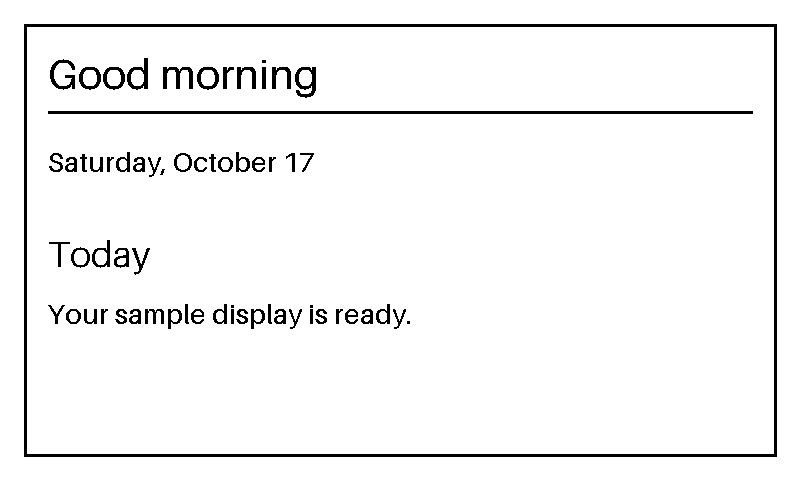
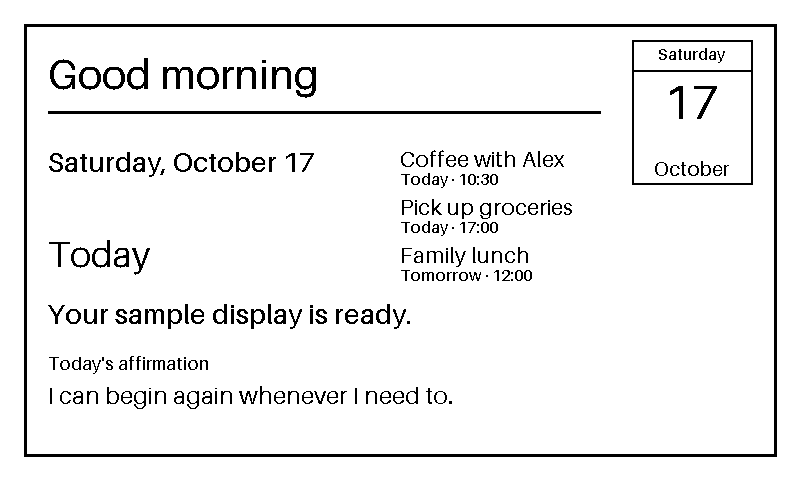
feat: show a daily affirmation on the display

diff --git a/server/renderer.py b/server/renderer.py
@@ -50,6 +50,29 @@ class Renderer:
             font = ImageFont.load_default(size=size)
             value = str(data[key])
             draw.text((x, y), value, font=font, fill=0)
+        elif kind == "wrapped_text":
+            key = block.get("key")
+            if not isinstance(key, str) or key not in data:
+                raise ValueError(f"text block references missing data key: {key!r}")
+            size = block.get("size", 24)
+            max_width = block.get("max_width")
+            max_lines = block.get("max_lines", 3)
+            if not isinstance(size, int) or size < 1:
+                raise ValueError("text size must be a positive integer")
+            if not isinstance(max_width, int) or max_width < 1:
+                raise ValueError("wrapped_text max_width must be a positive integer")
+            if not isinstance(max_lines, int) or max_lines < 1:
+                raise ValueError("wrapped_text max_lines must be a positive integer")
+            font = ImageFont.load_default(size=size)
+            lines = Renderer._wrap_text(draw, str(data[key]), font, max_width)
+            line_height = block.get("line_height", size + 6)
+            if not isinstance(line_height, int) or line_height < 1:
+                raise ValueError("wrapped_text line_height must be a positive integer")
+            if len(lines) > max_lines:
+                lines = lines[:max_lines]
+                lines[-1] = Renderer._truncate_text(draw, lines[-1] + " ...", font, max_width)
+            for index, line in enumerate(lines):
+                draw.text((x, y + index * line_height), line, font=font, fill=0)
         elif kind == "line":
             draw.line((x, y, block["x2"], block["y2"]), fill=0, width=block.get("width", 2))
         elif kind == "rectangle":
@@ -129,3 +152,19 @@ class Renderer:
             else:
                 high = middle - 1
         return value[:low] + ellipsis
+
+    @staticmethod
+    def _wrap_text(draw: ImageDraw.ImageDraw, value: str, font: ImageFont.ImageFont, max_width: int) -> list[str]:
+        lines: list[str] = []
+        current = ""
+        for word in value.split():
+            candidate = f"{current} {word}" if current else word
+            if draw.textlength(candidate, font=font) <= max_width:
+                current = candidate
+            else:
+                if current:
+                    lines.append(current)
+                current = Renderer._truncate_text(draw, word, font, max_width)
+        if current:
+            lines.append(current)
+        return lines or [""]

diff --git a/server/tests/test_frame_contract.py b/server/tests/test_frame_contract.py
@@ -14,7 +14,7 @@ from frame import (
     sample_frame,
     validate_frame,
 )
-from providers import CurrentDateProvider, SampleProvider
+from providers import CurrentDateProvider, DailyAffirmationProvider, SampleProvider
 from renderer import Renderer
 
 DEVICE_TOKEN = "test-only-device-token"
@@ -66,7 +66,9 @@ class FrameContractTests(unittest.TestCase):
             thread.join()
 
     def test_default_endpoint_serves_layout_rendered_frame(self):
-        expected = Renderer.from_file().render(SampleProvider().get_data())
+        data = SampleProvider().get_data()
+        data.update(DailyAffirmationProvider().get_data())
+        expected = Renderer.from_file().render(data)
         server = create_server(port=0, device_token=DEVICE_TOKEN)
         thread = threading.Thread(target=server.serve_forever, daemon=True)
         thread.start()
@@ -148,11 +150,28 @@ class RendererTests(unittest.TestCase):
 
     def test_default_layout_renders_sample_values_to_frame_contract(self):
         renderer = Renderer.from_file()
-        frame = renderer.render(SampleProvider().get_data())
+        data = SampleProvider().get_data()
+        data.update(DailyAffirmationProvider().get_data())
+        frame = renderer.render(data)
         self.assertEqual(len(frame), FRAME_SIZE)
         self.assertTrue(pixel_is_black(frame, 24, 24))
         self.assertTrue(pixel_is_black(frame, 50, 112))
         self.assertFalse(pixel_is_black(frame, 400, 400))
+
+    def test_wrapped_text_stays_inside_its_configured_width(self):
+        layout = {
+            "width": WIDTH,
+            "height": HEIGHT,
+            "blocks": [{"type": "wrapped_text", "key": "affirmation", "x": 20, "y": 20,
+                        "size": 24, "max_width": 200, "max_lines": 2}],
+        }
+
+        frame = Renderer(layout).render({"affirmation": "A thoughtful affirmation that wraps to multiple lines"})
+
+        self.assertTrue(any(pixel_is_black(frame, x, y) for y in range(20, 50) for x in range(20, 220)))
+        self.assertTrue(any(pixel_is_black(frame, x, y) for y in range(50, 80) for x in range(20, 220)))
+        self.assertFalse(any(pixel_is_black(frame, x, y) for y in range(80, 110) for x in range(20, 220)))
+        self.assertFalse(any(pixel_is_black(frame, x, y) for y in range(20, 80) for x in range(220, WIDTH)))
 
     def test_layout_is_editable_without_changing_provider(self):
         layout = {

diff --git a/server/providers.py b/server/providers.py
@@ -1,7 +1,7 @@
 """Small interfaces and integrations for server-side data sources."""
 
 import os
-from datetime import datetime, timedelta
+from datetime import date, datetime, timedelta
 from typing import Callable, Protocol
 from zoneinfo import ZoneInfo
 
@@ -49,6 +49,37 @@ class CurrentDateProvider:
             "weekday": current.strftime("%A"),
             "day": current.strftime("%d").lstrip("0") or "0",
             "month": current.strftime("%B"),
+        }
+
+
+class DailyAffirmationProvider:
+    """Return one bundled affirmation selected for the current local date."""
+
+    AFFIRMATIONS = (
+        "I can take today one step at a time.",
+        "I make room for what matters to me.",
+        "Small progress is still progress.",
+        "I can meet this day with patience.",
+        "I am allowed to learn as I go.",
+        "My effort matters, even when it is quiet.",
+        "I can begin again whenever I need to.",
+        "I bring care and attention to what I do.",
+        "I can focus on the next useful step.",
+        "I have the strength to handle today's challenges.",
+        "I can be proud of how far I have come.",
+        "There is value in taking time to rest.",
+        "I choose progress over perfection.",
+        "I can make today meaningful in my own way.",
+    )
+
+    def __init__(self, today: Callable[[], date] | None = None):
+        self.today = today or (lambda: datetime.now().astimezone().date())
+
+    def get_data(self) -> dict[str, str]:
+        day = self.today()
+        return {
+            "affirmation_heading": "Today's affirmation",
+            "affirmation": self.AFFIRMATIONS[day.toordinal() % len(self.AFFIRMATIONS)],
         }
 
 

diff --git a/server/tests/test_ical_provider.py b/server/tests/test_ical_provider.py
@@ -1,11 +1,11 @@
 import os
 import unittest
-from datetime import datetime, timedelta, timezone
+from datetime import date, datetime, timedelta, timezone
 from unittest.mock import patch
 
 import requests
 
-from providers import ICalendarProvider, SampleProvider, provider_from_environment
+from providers import DailyAffirmationProvider, ICalendarProvider, SampleProvider, provider_from_environment
 
 
 class FakeResponse:
@@ -82,6 +82,20 @@ END:VCALENDAR
             with self.assertRaisesRegex(RuntimeError, "Unable to read") as error:
                 provider.get_data()
         self.assertNotIn(secret_url, str(error.exception))
+
+
+class DailyAffirmationProviderTests(unittest.TestCase):
+    def test_selects_the_same_affirmation_within_a_day_and_advances_the_next_day(self):
+        first_day = date(2026, 10, 17)
+        provider = DailyAffirmationProvider(today=lambda: first_day)
+        first = provider.get_data()
+
+        self.assertEqual(provider.get_data(), first)
+        self.assertEqual(provider.get_data()["affirmation_heading"], "Today's affirmation")
+        self.assertNotEqual(
+            first["affirmation"],
+            DailyAffirmationProvider(today=lambda: first_day + timedelta(days=1)).get_data()["affirmation"],
+        )
 
 
 if __name__ == "__main__":

diff --git a/server/app.py b/server/app.py
@@ -9,7 +9,7 @@ import time
 from http.server import BaseHTTPRequestHandler, ThreadingHTTPServer
 
 from frame import CONTENT_TYPE, FRAME_SIZE, validate_frame
-from providers import CurrentDateProvider, DEFAULT_DATE_FORMAT, provider_from_environment
+from providers import CurrentDateProvider, DailyAffirmationProvider, DEFAULT_DATE_FORMAT, provider_from_environment
 from renderer import DEFAULT_LAYOUT_PATH, Renderer
 
 FRAME_PATH = "/api/frame/v1"
@@ -94,10 +94,12 @@ def create_handler(frame_provider=None, refresh_seconds=DEFAULT_REFRESH_SECONDS,
 
         provider = provider_from_environment()
         date_provider = CurrentDateProvider(os.environ.get("SLATE_DATE_FORMAT", DEFAULT_DATE_FORMAT))
+        affirmation_provider = DailyAffirmationProvider()
 
         def render_frame():
             data = provider.get_data()
             data.update(date_provider.get_data())
+            data.update(affirmation_provider.get_data())
             return Renderer.from_file(layout_file).render(data)
 
         frame_provider = render_frame

diff --git a/server/README.md b/server/README.md
@@ -36,6 +36,7 @@ The layout supports these block types:
 | Type | Required fields | Optional fields | Effect |
 | --- | --- | --- | --- |
 | `text` | `key` | `x`, `y`, `size` | Draw the provider value named by `key`. Defaults: position `(0, 0)`, size `24`. |
+| `wrapped_text` | `key`, `max_width` | `x`, `y`, `size`, `max_lines`, `line_height` | Wrap a provider value at word boundaries within a pixel width, and clip excess lines with an ellipsis. Defaults: position `(0, 0)`, size `24`, three lines, line height `size + 6`. |
 | `line` | `x2`, `y2` | `x`, `y`, `width` | Draw from `(x, y)` to `(x2, y2)`. Defaults: start `(0, 0)`, width `2`. |
 | `rectangle` | `width`, `height` | `x`, `y`, `stroke` | Draw an outline from `(x, y)` to `(x + width, y + height)`. Defaults: position `(0, 0)`, stroke `2`. |
 | `calendar` | — | `x`, `y`, `width`, `height`, `stroke`, `weekday_size`, `day_size`, `month_size`, `weekday_key`, `day_key`, `month_key` | Draw a calendar icon using the `weekday`, `day`, and `month` provider values. Defaults: position `(0, 0)`, size `120×140`, keys `weekday`/`day`/`month`, font sizes `16`/`48`/`20`. |
@@ -88,6 +89,12 @@ weekday and month names use the server process locale. Set `TZ` to an IANA
 timezone to control which local date is displayed. The calendar block can be
 removed from the layout or positioned and sized independently of the formatted
 date text.
+
+`DailyAffirmationProvider` adds an `affirmation_heading` and `affirmation` to
+every frame. It cycles through bundled, generic text using the local calendar
+date, so the selection remains stable through the day and needs no network
+access. The sample layout uses `wrapped_text` to keep the message within its
+available space. See the [daily affirmation provider guide](../docs/providers/daily-affirmation.md).
 
 To add another data source, create a provider with the same `get_data()`
 interface, then wire it into the server in `app.py` in place of

diff --git a/docs/providers/daily-affirmation.md b/docs/providers/daily-affirmation.md
@@ -1,0 +1,16 @@
+# Daily affirmation provider
+
+`DailyAffirmationProvider` supplies `affirmation_heading` and `affirmation` to
+the renderer. It chooses an item from a bundled list based on the server's
+local calendar date. The same item is used throughout one day, and the list
+advances on the next day. It has no credentials or online dependency.
+
+The default layout renders the heading and affirmation near the bottom of the
+frame. The affirmation uses a `wrapped_text` block with a maximum width and
+line count, so longer content cannot run across adjacent display sections.
+Adjust its position and size in [`server/layout.json`](../../server/layout.json)
+if the layout changes.
+
+To add or revise affirmations, edit the `AFFIRMATIONS` tuple in
+[`server/providers.py`](../../server/providers.py). Keep entries original,
+short, broadly appropriate, and readable in the 800×480 monochrome preview.

diff --git a/README.md b/README.md
@@ -21,7 +21,7 @@ particular home network or deployment platform.
 - [Server guide](server/README.md) — run the renderer, edit its sample layout,
   and add data providers.
 - [Provider guides](docs/providers/README.md) — configure the sample and Google
-  Calendar iCal providers.
+  Calendar iCal providers, and learn about the daily affirmation.
 - [Firmware guide](firmware/README.md) — configure, build, flash, and monitor
   the ESP32.
 - [Architecture and frame format](docs/architecture.md) — service boundaries,

diff --git a/docs/providers/README.md b/docs/providers/README.md
@@ -8,6 +8,7 @@ when that URL is configured.
 | --- | --- | --- |
 | Sample data | [Sample provider](sample.md) | None |
 | Current date | [Current date provider](current-date.md) | None |
+| Daily affirmation | [Daily affirmation provider](daily-affirmation.md) | None |
 | Google Calendar iCal feed | [Google Calendar iCal feed](google-calendar-ical.md) | Secret HTTPS feed URL in local `.env` |
 
 Every provider returns named values through `get_data()`. The renderer uses
